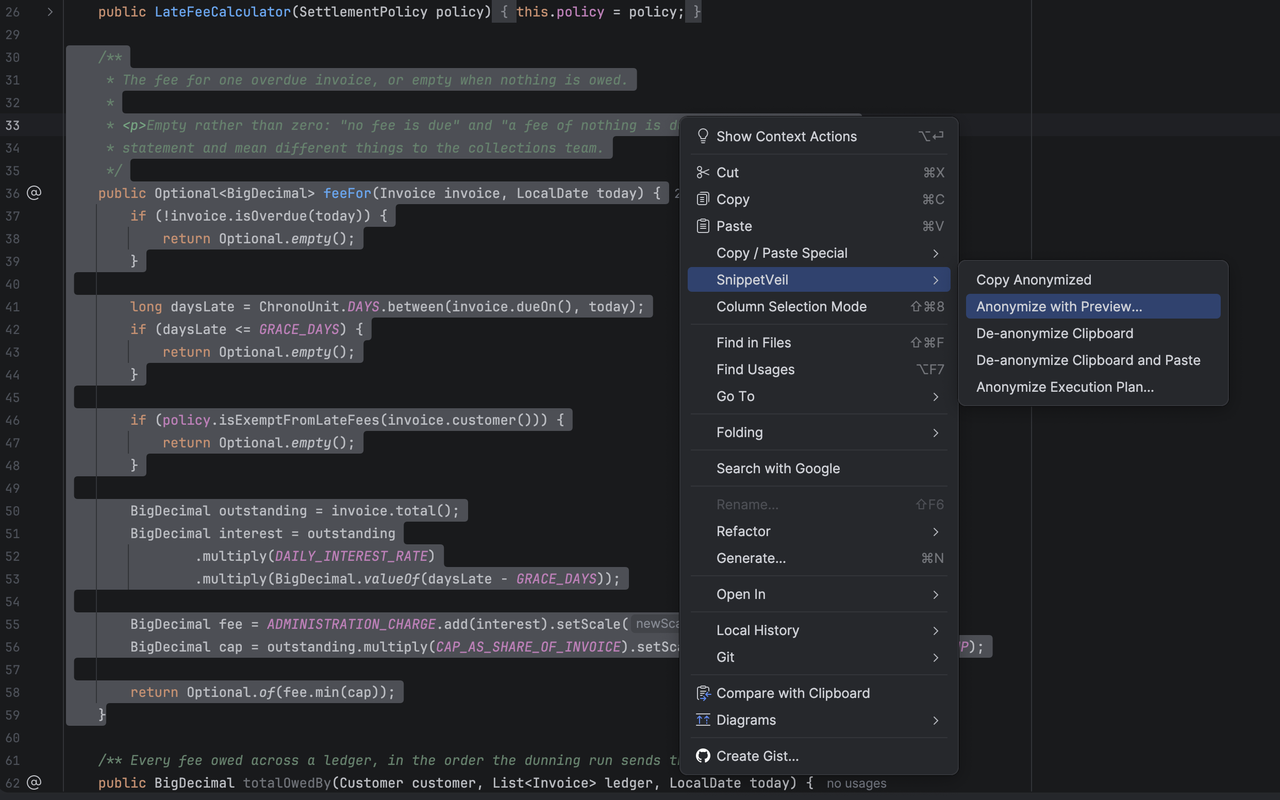
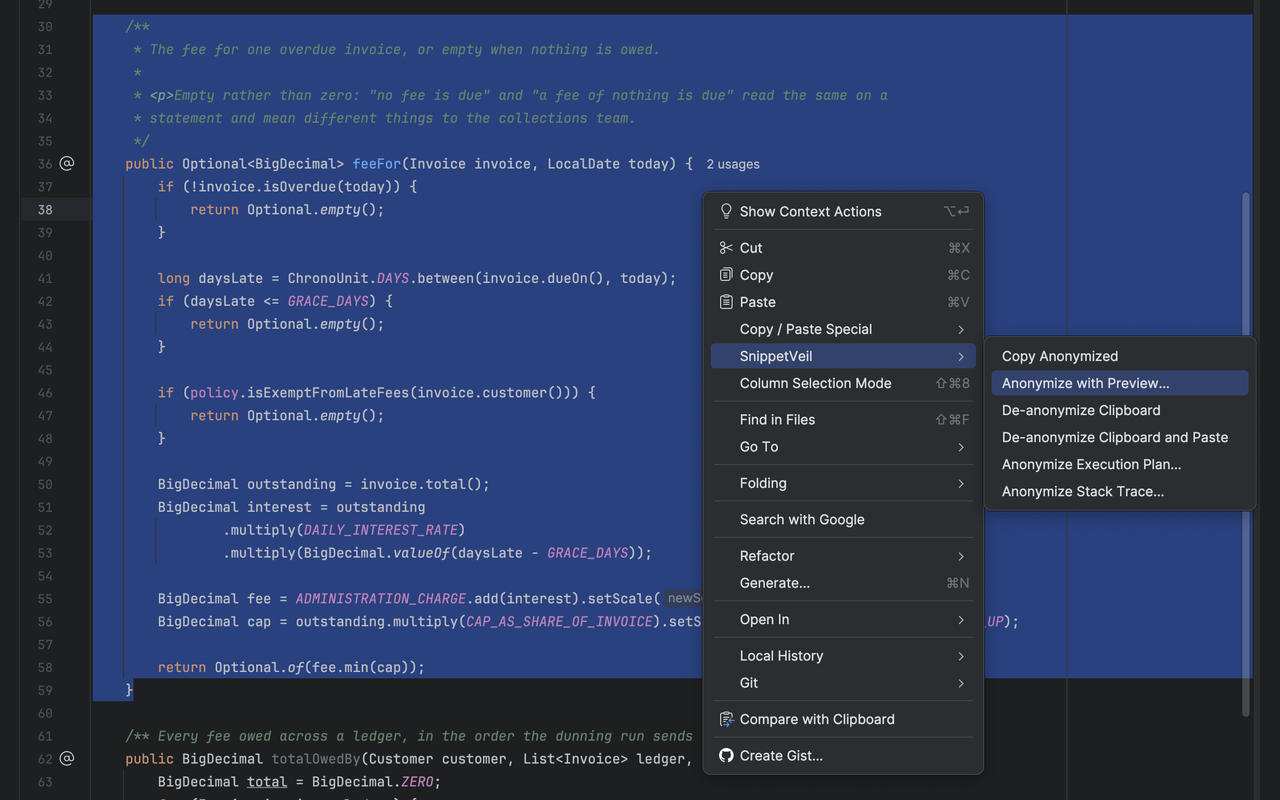
The menu shots show six items, and the stack trace preview gets a shot
Shots 1, 2 and 9 are re-taken with Anonymize Stack Trace... as the
submenu's sixth item, and the note saying they still showed five is
retired. Shot 12, preview-stack-trace.png, is new: the trace preview on
demo/traces/billing-npe.txt, an invented trace through DunningRun,
Invoice and LateFeeCalculator at their real line numbers plus one frame
of a class demo/ does not have. Its spec says to load the clipboard
with pbcopy so the tabs survive, and to shoot it in K2 mode; the frame
committed here was taken in the K1 floor sandbox and carries the Kotlin
note, so it is marked as due to be re-taken. The walkthrough GIF becomes
13, and the counts read twelve. Every image is normalised to 1280 x 800
on a ground sampled from its own edge.

diff --git a/docs/screenshots/README.md b/docs/screenshots/README.md
@@ -1,6 +1,6 @@
 # The Marketplace screenshots
 
-Eleven shots, taken from [`demo/`](../../demo/README.md) so that any of them can be re-taken at any
+Twelve shots, taken from [`demo/`](../../demo/README.md) so that any of them can be re-taken at any
 commit by anyone.
 
 They are committed here rather than living only in the Marketplace listing, for the reason the demo
@@ -9,7 +9,7 @@ that cannot be reproduced cannot be corrected when the dialog it shows moves on.
 
 ## Rules every shot has to meet
 
-- **1280 × 800**, and the same aspect for all eleven. The Marketplace scales them together; one odd
+- **1280 × 800**, and the same aspect for all twelve. The Marketplace scales them together; one odd
   shot reads as a mistake in the listing rather than as a difference in the product.
 - **No window chrome.** Capture the IDE's content, not the title bar, the traffic lights or the
   desktop behind them.
@@ -31,8 +31,8 @@ The editor popup, open, with **Copy Anonymized** visible under the **SnippetVeil
 **All six items of the submenu are in frame**, in this shot and in 2 and 9. The three menu shots
 were re-taken when **Anonymize Execution Plan…** joined the submenu, for the reason shot 3 gives
 below: a menu shown with four items, to a reader who will find five, is a picture of a product that
-no longer exists. **Anonymize Stack Trace…** has since joined as the sixth item, and the three
-committed menu shots still show five: they are due to be re-taken for the same reason.
+no longer exists. They were re-taken again when **Anonymize Stack Trace…** joined as the sixth
+item.
 
 **Selection: `LateFeeCalculator.java`, lines 30–59** — the javadoc on `feeFor` through the method's
 closing brace. Right-click inside the selection, hover **SnippetVeil**. The shot is the selection and
@@ -223,7 +223,37 @@ cost, row estimate and timing is exactly what the editor above prints. The count
 **No menu shot of the item.** It is in frame, unhighlighted, in shots 1, 2 and 9; a fourth frame of
 one menu is the repetition shot 9 already had to argue its way past.
 
-### 12. `walkthrough.gif` (optional)
+### 12. `preview-stack-trace.png`
+
+**Anonymize Stack Trace…** on [`demo/traces/billing-npe.txt`](../../demo/traces/billing-npe.txt): an
+invented `IllegalStateException` caused by a `NullPointerException`, whose project frames are real
+methods of `demo/` at their real line numbers — `DunningRun.remindersFor`, `Invoice.total`,
+`LateFeeCalculator.feeFor`.
+
+**Put it on the clipboard with `pbcopy < demo/traces/billing-npe.txt`**, never by copying it from a
+page that renders it. The JVM indents frames with tabs, and a copy from a chat window or a web page
+turns them into spaces.
+
+The subject is what a reader checks a trace anonymizer for, in one frame: the project frames read
+`com.pkgN.pkgN.TypeN.methodN(TypeN.java:35)` with their line numbers as printed; the JDK frames keep
+their names with the `java.base/` prefix removed; the thread name and both messages are `str`
+literals; and `com.harborlight.jobs.NightlyBilling`, which is deliberately absent from `demo/`, comes
+back as three `Unknown`s with their Preserve boxes. The counts strip reads `renamed · unknown ·
+preserved`, and the button reads `Copy Anonymized Trace`.
+
+**Shoot it in an IDE whose Kotlin plugin runs in K2 mode** — 2025.1 or later, where K2 is the
+default. In K1 mode the dialog adds a line under the counts saying SnippetVeil's Kotlin support is
+not active, because the trace has unknowns; that is the product working as designed, and the wrong
+shot. The frame committed on 2026-10-02 was taken in the 2024.2 floor sandbox and carries that line,
+so it is due to be re-taken in K2 mode.
+
+**Cut the title bar off.** The dialog is a window of its own, so capture it as the preview frames are
+captured — the window, then the chrome removed — rather than as a region of the editor.
+
+**No menu shot of the item**, for the reason shot 11 gives: it is in frame, unhighlighted, in shots 1,
+2 and 9.
+
+### 13. `walkthrough.gif` (optional)
 
 Roughly ten seconds, no audio: select, **Copy Anonymized**, paste into a scratch buffer, then
 **De-anonymize Clipboard** on a reply pasted back. Same window, same theme, same rules as above.
@@ -257,9 +287,9 @@ unchanged — scale to fit 1280 × 800, centre on a ground sampled from the imag
 
 ## What is here
 
-All eleven stills, shot from `demo/` in a sandbox IDE and normalised to 1280 x 800: each scaled to
+All twelve stills, shot from `demo/` in a sandbox IDE and normalised to 1280 x 800: each scaled to
 fit and centred on a ground sampled from its own edge, so the letterboxing is invisible and the set
-reads as one product rather than as eleven window sizes.
+reads as one product rather than as twelve window sizes.
 
 **Shots 3 to 6 are one opening of the dialog**, in the order this file gives, so the four frames
 carry one mapping table between them: `feeFor` is `method153` in shot 3, is being typed over in shot

diff --git a/demo/README.md b/demo/README.md
@@ -63,6 +63,7 @@ Anything the IDE writes here — `.idea/`, `out/` — is already ignored by the 
 | `Invoice.java`, `InvoiceLine.java`, `Customer.java` | The domain vocabulary the anonymiser replaces — the reason the shots read as a business rather than as a puzzle |
 | `ExposureReport.java` | A JDBC query the IDE injects SQL into, written so every name in it decomposes into `table`, `col` and `schema` placeholders — no bind parameter, no string, no alias. `java.sql` is the JDK's |
 | `plans/overdue-invoices.txt` | An invented PostgreSQL `EXPLAIN ANALYZE` over the same ledger, for the plan preview. It is not source; it is on the clipboard for one shot |
+| `traces/billing-npe.txt` | An invented stack trace through `DunningRun`, `Invoice` and `LateFeeCalculator` at their real line numbers, plus one frame of a class that is not here, for the stack trace preview. It is not source; it is on the clipboard for one shot, and its frames are indented with tabs, as the JVM prints them |
 | `DunningRun.java` | A snippet where two different symbols share one source name, which is what makes the preview's fidelity notice fire |
 | `SettlementPolicy.java`, `InvoiceRepository.java`, `InvoiceStatus.java`, `PaymentTerms.java` | The rest of the package, so that names resolve and the shots are of resolved code |
 

diff --git a/CONTRIBUTING.md b/CONTRIBUTING.md
@@ -1459,8 +1459,8 @@ happens next.
 from, committed so the shots are reproducible at any commit. **It is not a Gradle subproject** — the
 build is fixed at `:core` + `:plugin`, and the release asserts the shipped classpath holds `:core`
 and nothing else — so it is loose source, opened as its own IDEA project, and never on the
-distribution's path. [`docs/screenshots/README.md`](docs/screenshots/README.md) lists the six shots
-and the selection each is taken from.
+distribution's path. [`docs/screenshots/README.md`](docs/screenshots/README.md) lists the twelve
+shots and the selection or input each is taken from.
 
 ## Signing off: the DCO, and deliberately no CLA
 
